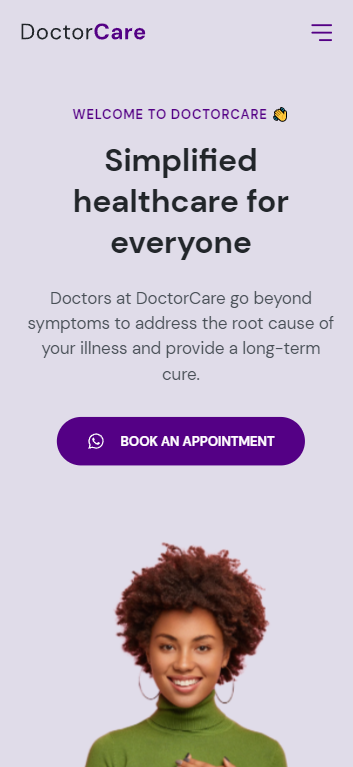
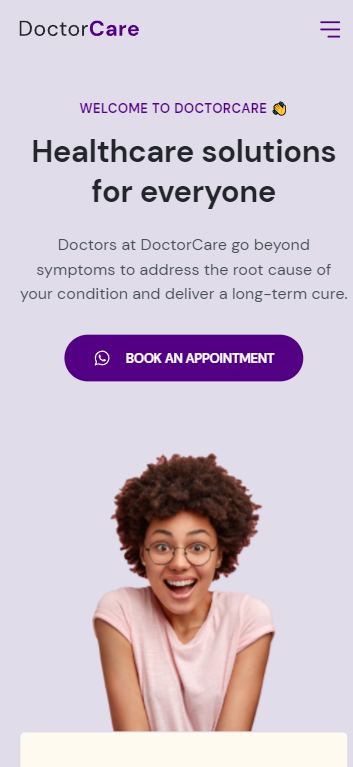
commit

diff --git a/style.css b/style.css
@@ -322,7 +322,7 @@ body.menu-expanded button path {
 }
 
 #home img {
-  width: 26.4rem;
+  width: 20.4rem;
   display: block;
   margin-inline: auto;
   object-position: 0 2rem;
@@ -675,7 +675,7 @@ footer .social-links {
   }
 
   #home img {
-    width: 42rem;
+    width: 35rem;
   }
 
   /*=== SERVICES =================================*/
